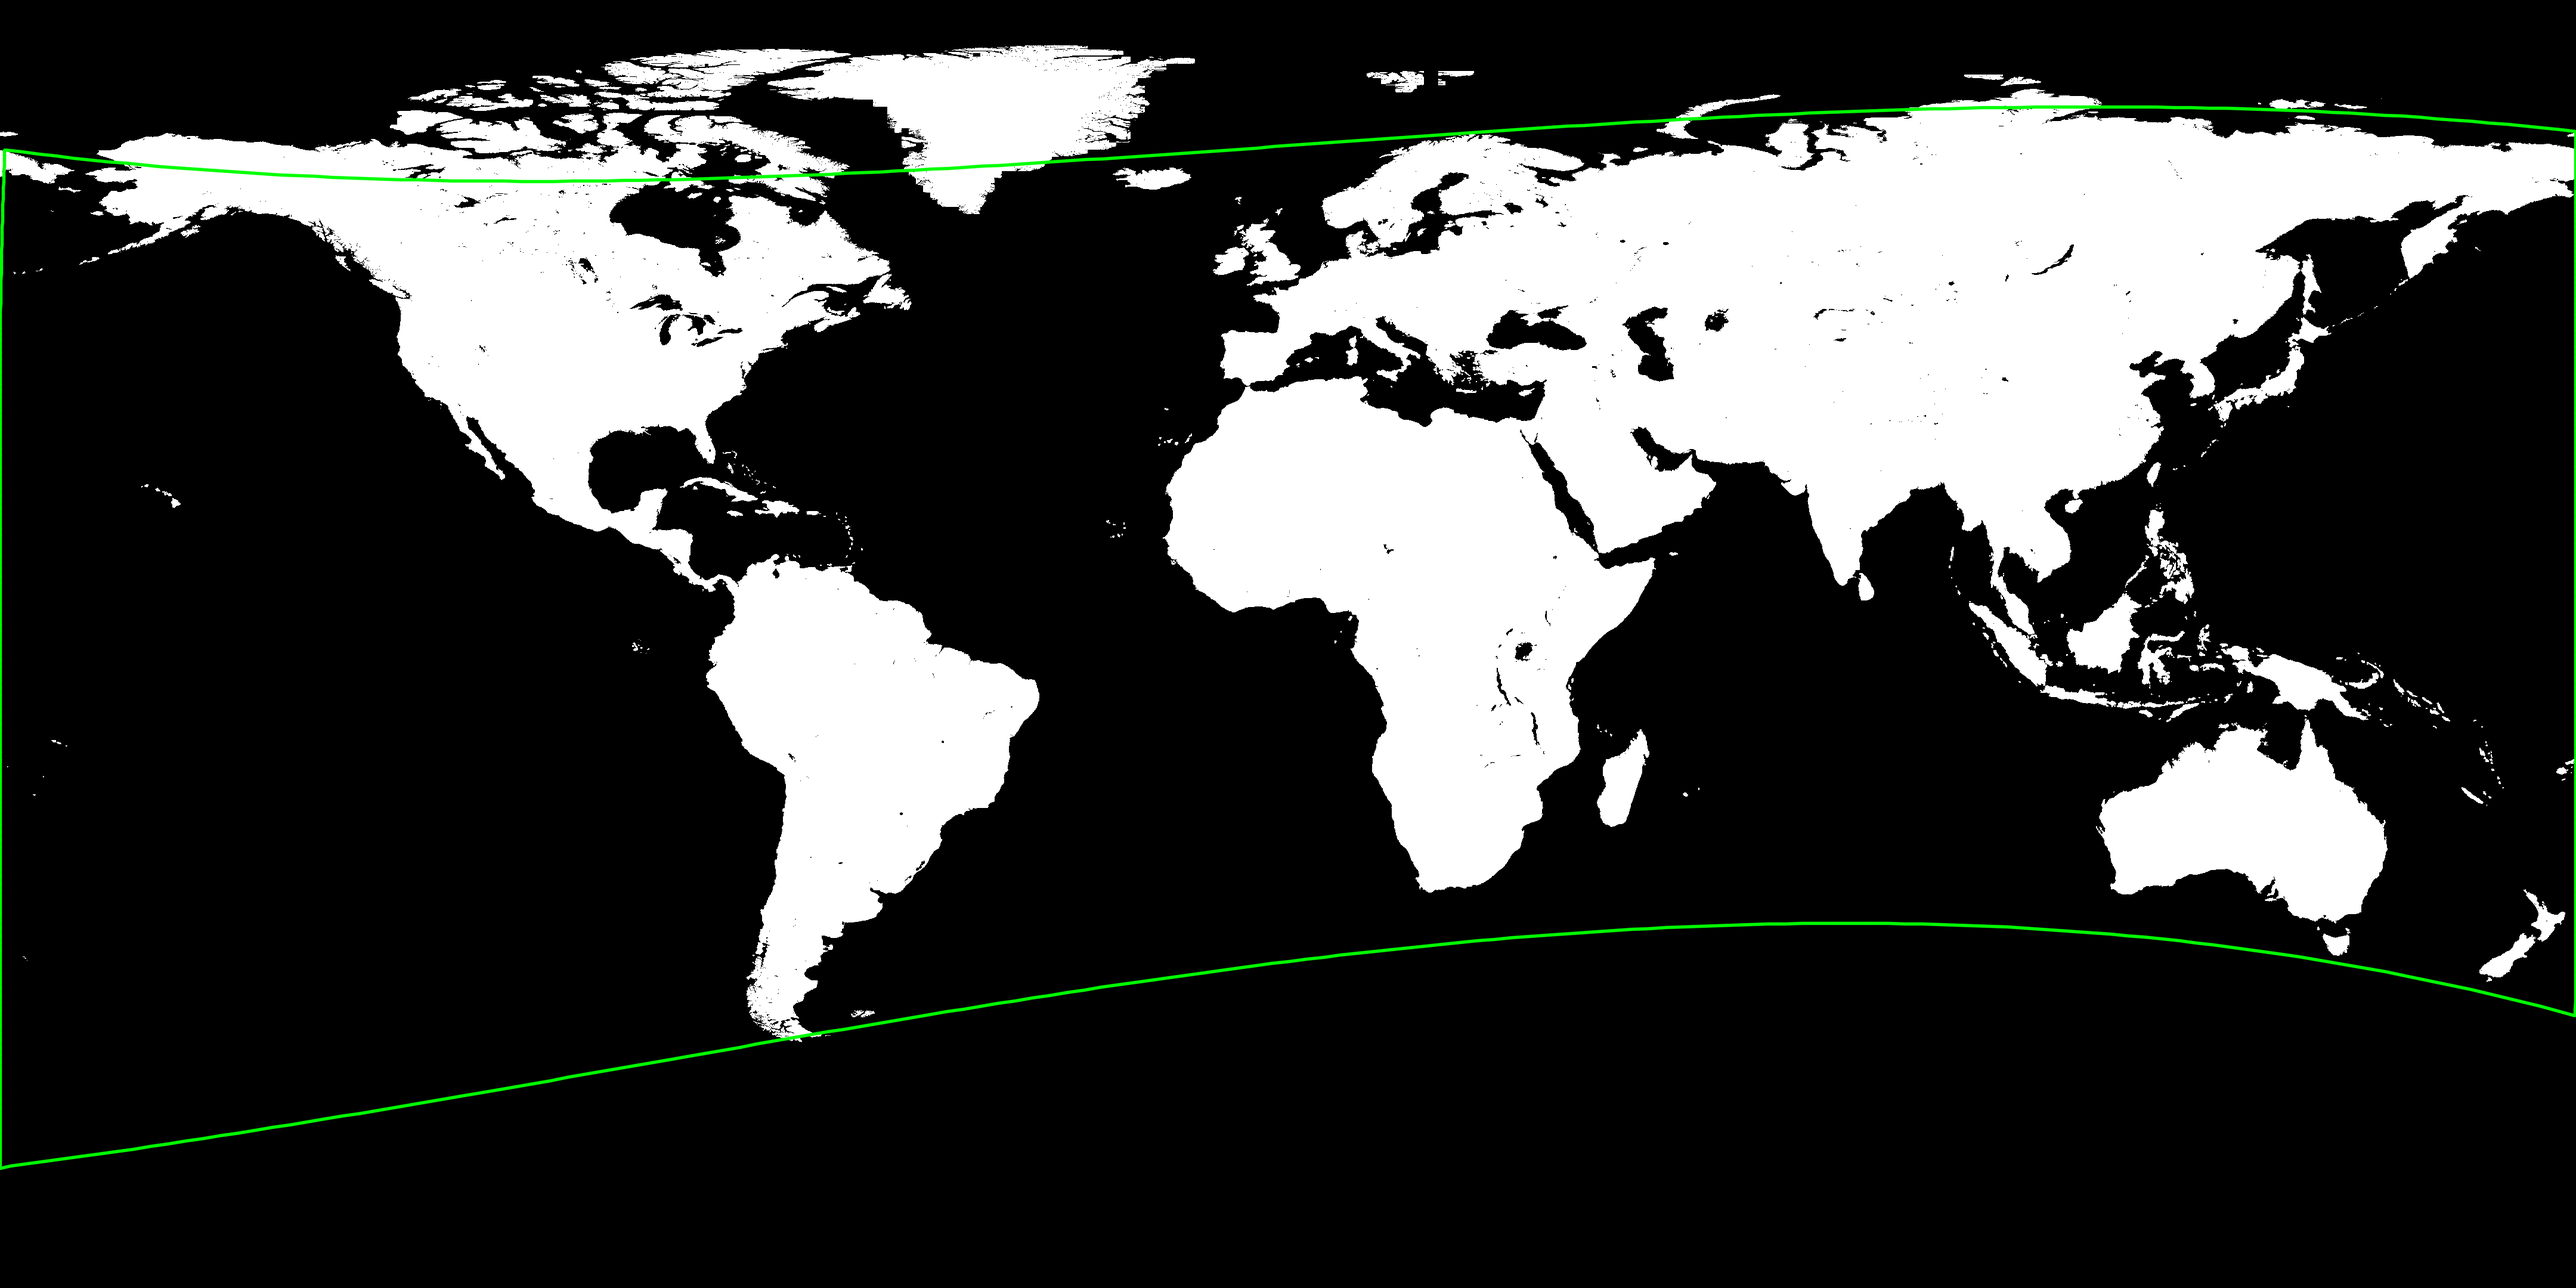
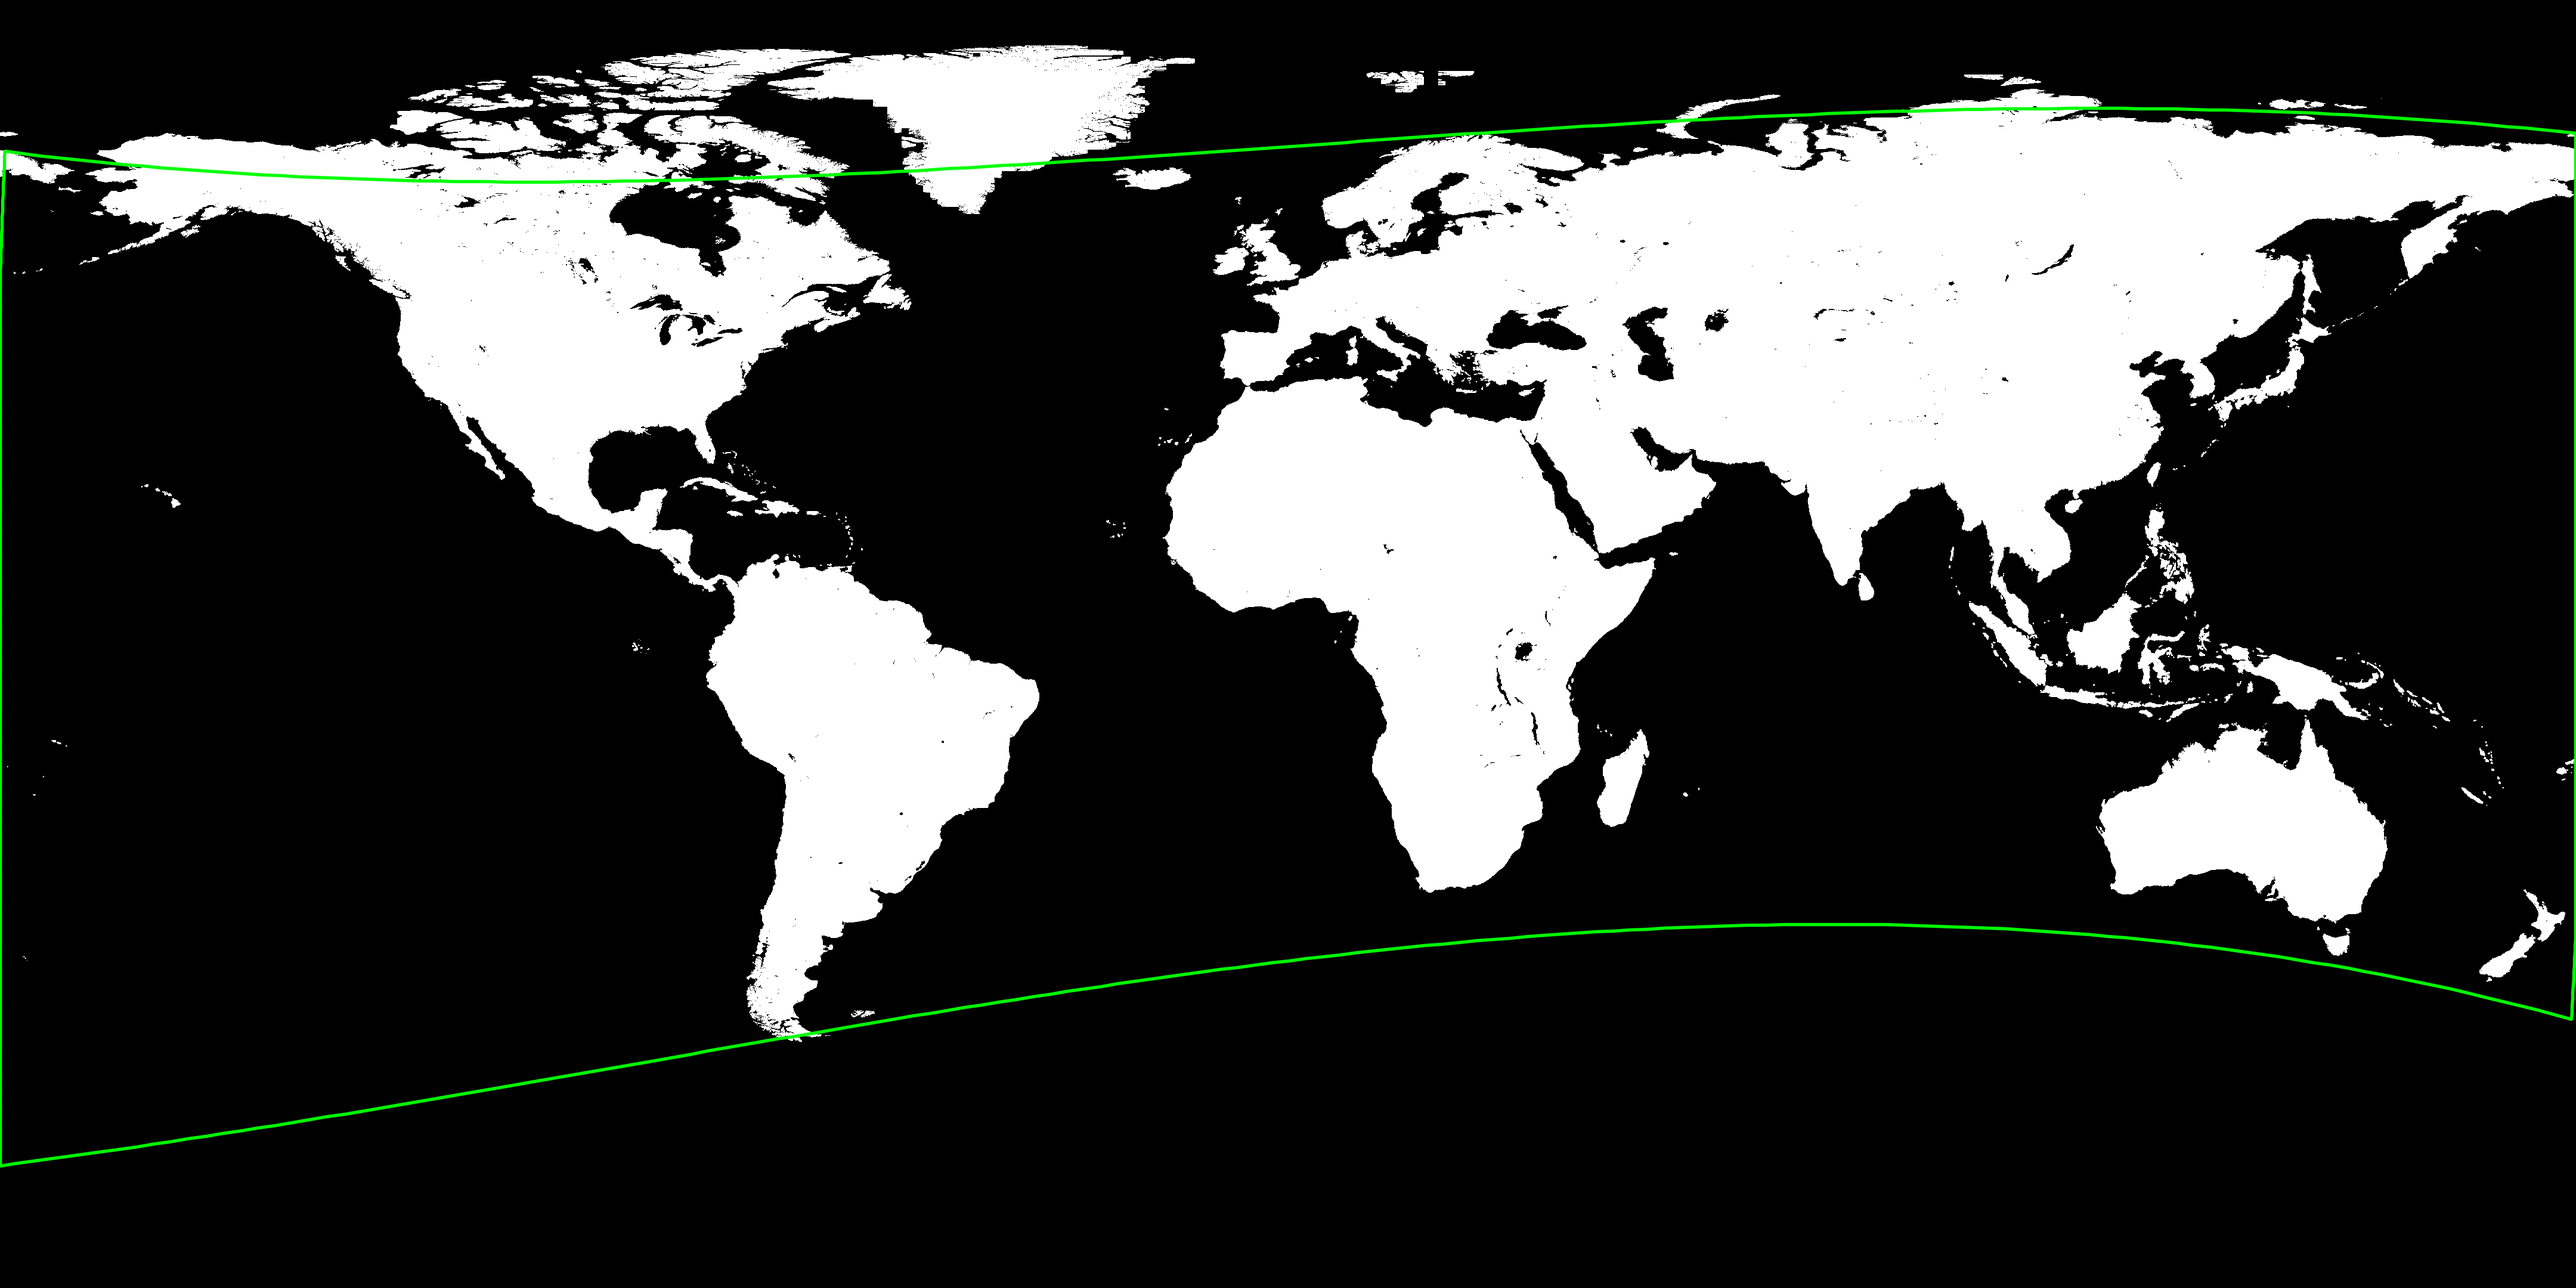
best results yet

diff --git a/deprojector_1.2/app.py b/deprojector_1.2/app.py
@@ -70,14 +70,15 @@ def executePipeline():
             warp_mode="tps",   
             levels=4,             
             steps_per_lvl=1200,    
-            lr_init=2.0, #2.0 default
-            lam_fold=2.0, #1.5 tends to yield best results
+            lr_init=4.0, #2.0 default
+            lr_gain=1.6, #0.6 by default
+            lam_fold=2.0, #2.0 tends to yield best results
             dyn_points_per_level=24, #24   
-            dyn_error_threshold=0, #0.005       
+            dyn_error_threshold=0, #0       
             dyn_min_dist=12, #12
             prune_interval=150, # Determines step intervals during levels in which prunes may occur
-            center_penalty=0, #8.0
-            edge_penalty=0, #12.0
+            center_penalty=16.0, #8.0
+            edge_penalty=16.0, #12.0
         )
     )
 

diff --git a/deprojector_1.2/pipeline/C_mesh_warp.py b/deprojector_1.2/pipeline/C_mesh_warp.py
@@ -392,6 +392,7 @@ def sgd_point_warp_polygon_constrained(
     warp_mode: str = "affine",
     levels: int = 4,
     steps_per_lvl: int = 350,
+    lr_gain: float = 0.6,
     lr_init: float = 2.0,
     lam_fold: float = 0.5,
     dyn_points_per_level: int = 8,
@@ -469,7 +470,7 @@ def sgd_point_warp_polygon_constrained(
     current_simplices = None
     
     for lvl in range(levels):
-        lr = lr_init * (0.6 ** lvl)
+        lr = lr_init * (lr_gain ** lvl)
         print(f"  ── Level {lvl + 1}/{levels} | Points: {len(P_ref_np)} | LR: {lr:.4f}")
         
         if warp_mode == "affine":
